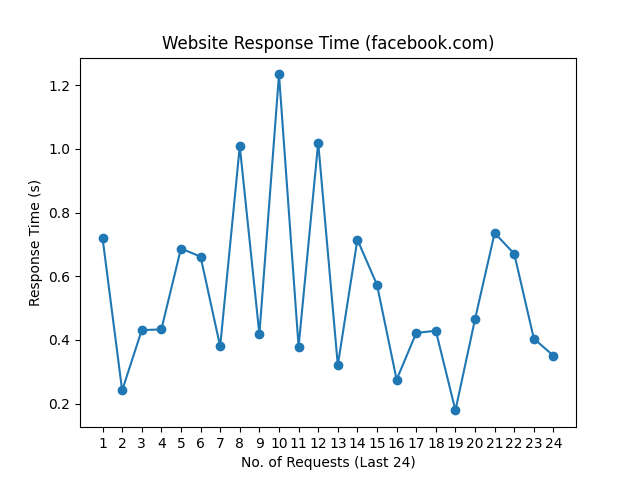
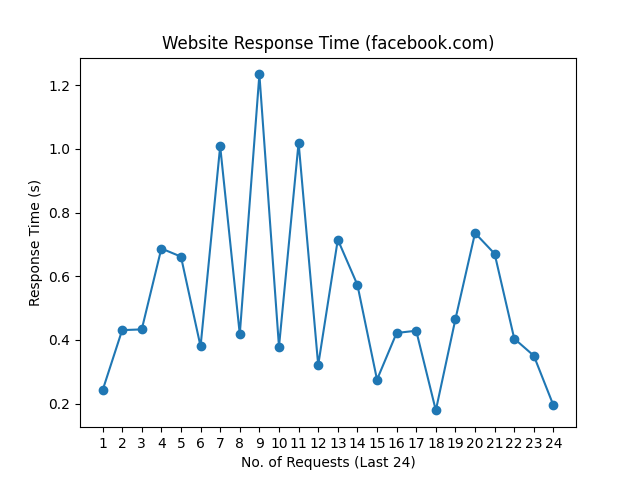
update README.md, history and graph

Changed region(s): [[0.1562, 0.125, 0.875, 0.875], [0.8438, 0.7812, 0.875, 0.875]]

diff --git a/README.md b/README.md
@@ -1,10 +1,10 @@
 # Web Monitoring
 
-Last Checked: 21/01/2025 08:19
+Last Checked: 22/01/2025 08:20
 
 | Website | Response Time (s) | Status | Avg Uptime (%) |
 |---------|-------------------|--------|----------------|
 | www.thiswebsiteisdown.net | 0 <br> <img src="graph/thiswebsiteisdown.net.png" alt="Graph" width="200" height="200">  | ❌ Down | 0.00 |
-| www.netflix.com | 1.041257 <br> <img src="graph/netflix.com.png" alt="Graph" width="200" height="200">  | ✅ Up | 99.81 |
-| www.google.com | 0.114875 <br> <img src="graph/google.com.png" alt="Graph" width="200" height="200">  | ✅ Up | 100.00 |
-| www.facebook.com | 0.350361 <br> <img src="graph/facebook.com.png" alt="Graph" width="200" height="200">  | ✅ Up | 100.00 |
+| www.netflix.com | 1.046336 <br> <img src="graph/netflix.com.png" alt="Graph" width="200" height="200">  | ✅ Up | 99.81 |
+| www.google.com | 0.109556 <br> <img src="graph/google.com.png" alt="Graph" width="200" height="200">  | ✅ Up | 100.00 |
+| www.facebook.com | 0.194350 <br> <img src="graph/facebook.com.png" alt="Graph" width="200" height="200">  | ✅ Up | 100.00 |
